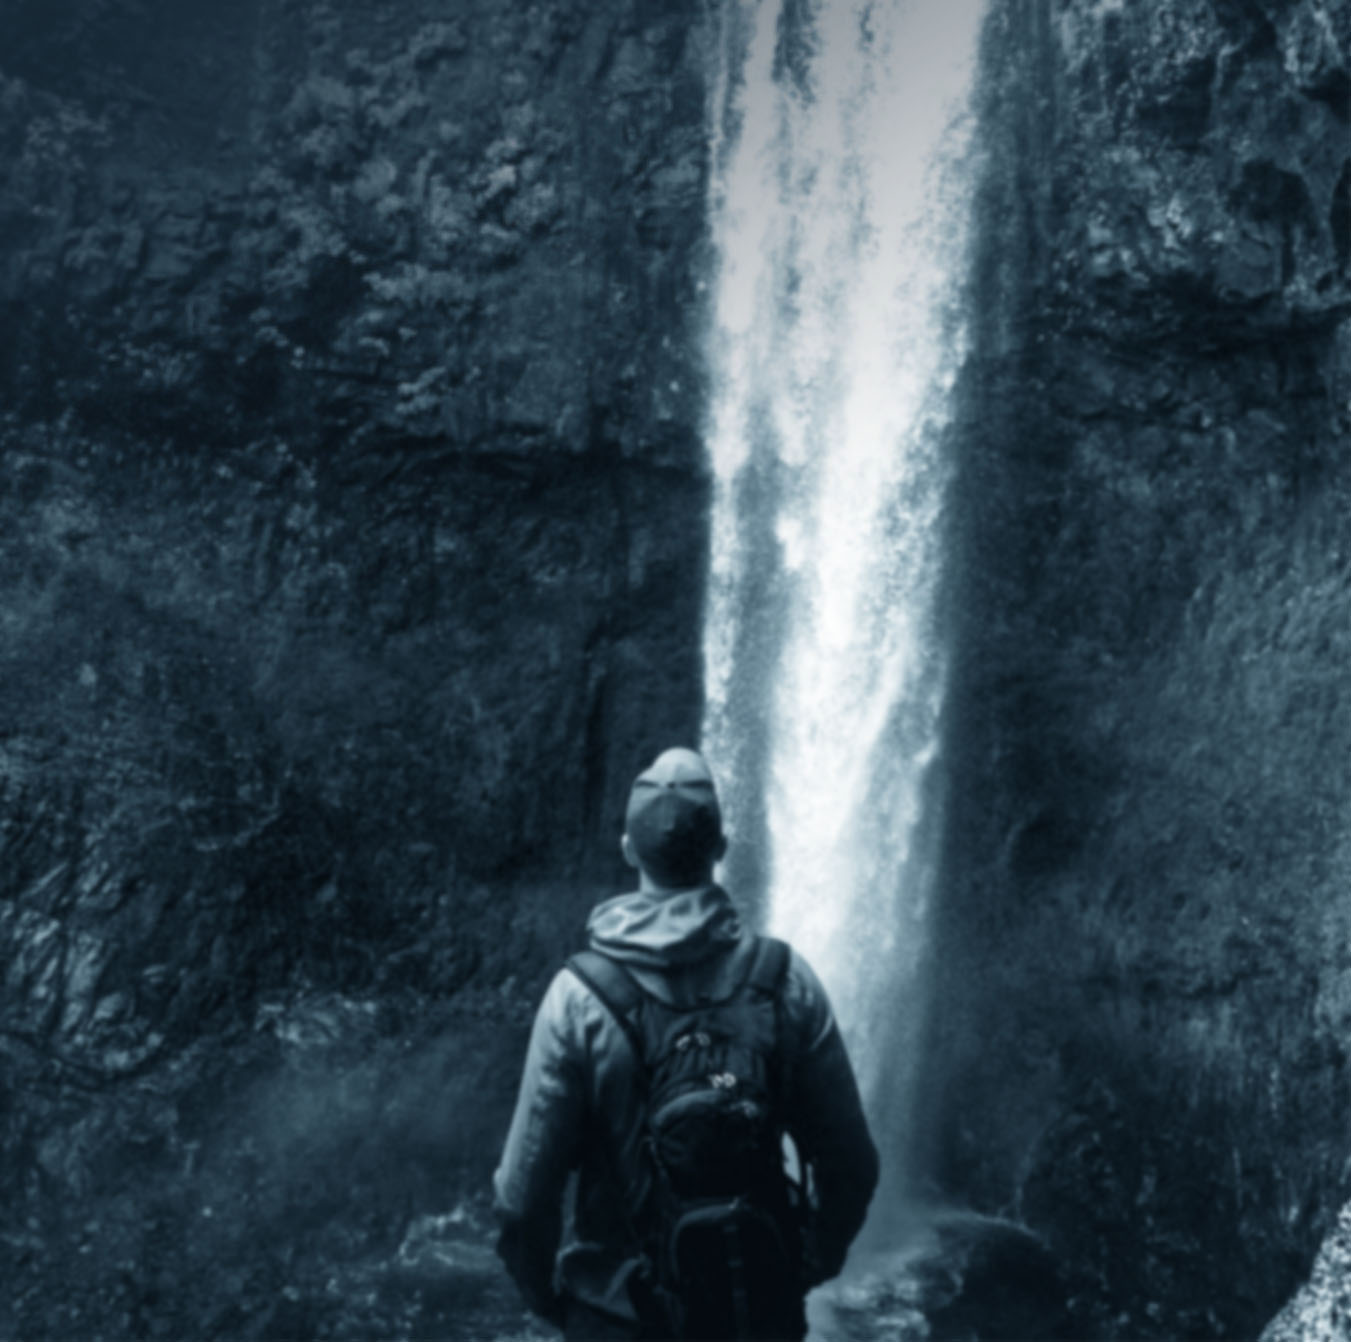
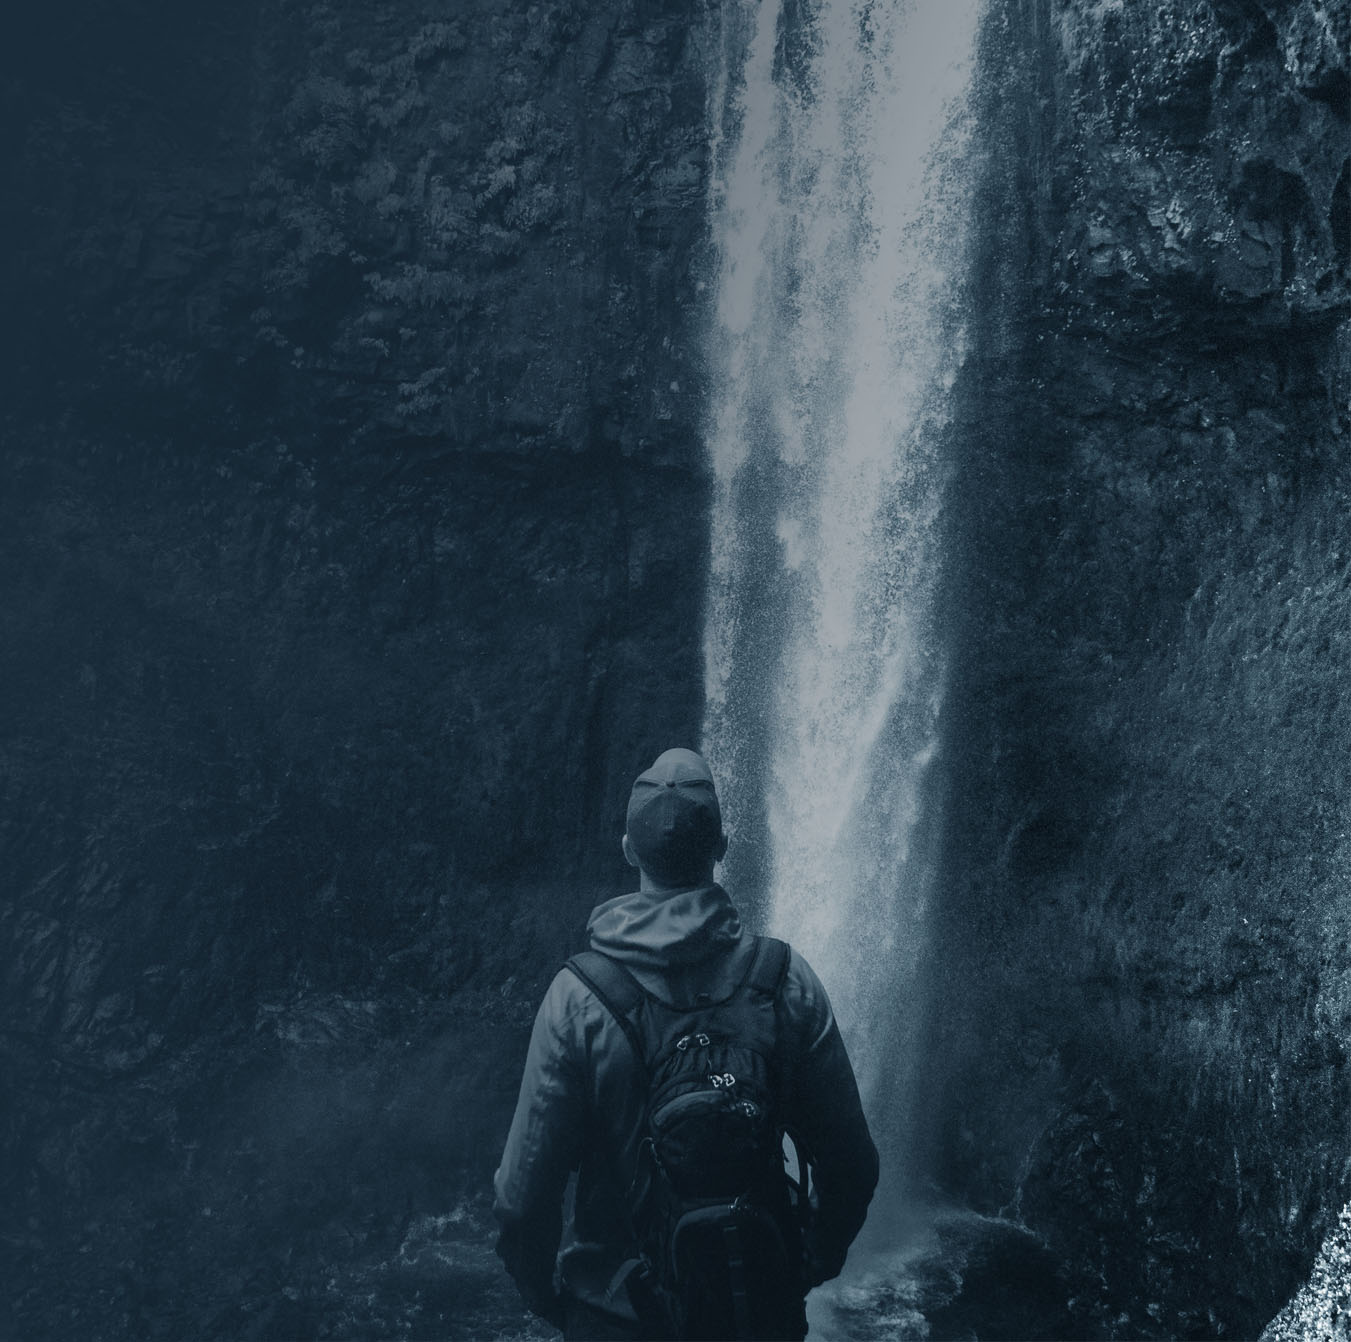
init

diff --git a/src/styles/m-app.css b/src/styles/m-app.css
@@ -161,32 +161,6 @@ textarea {
 }
 
 /*************************************************************************************************/
-.form-submit {
-	position: absolute;
-	height: auto;
-    padding: 5vw;
-	border: 0;
-	border-radius: 1.2vw;
-    font-family: Open, sans-serif;
- 	font-size: 6vw;
-    font-weight: 500;
-    letter-spacing: .1vw;
-	background-color: rgb(255, 145, 0);
-    box-shadow: rgba(255, 58, 58, 0.5) 0px 30px 60px -12px inset, 
-    rgba(255, 72, 0, 0.719) 0px 18px 36px -18px inset;
-	color: white;
-	cursor: pointer;
-	transition: background-color .5s;
-}
-
-.form-submit:hover {
-	transition: background-color .5s;
-	background-color: rgb(255, 166, 0);
-}
-
-.form-submit:active {
-	background-color: rgb(255, 208, 0);
-}
 
 .form__next,
 .form__previous,
@@ -240,16 +214,36 @@ textarea {
 
     .form__next,
     .form__previous,
-    .subscrit-form {
+    .subscrit-form,
+    .formModal,
+    .forgotPassword,
+    .backToWebSiteModal,
+    .formSubmit {
         margin-bottom: 12px;
         width: 500px;
         padding: 20px;
         border-radius: 6px;
         font-size: 28px;
         letter-spacing: .5px;
+    } 
+
+    .form {
+        top: 55%;
+    }
+    
+    .formMeanStyle input {
+        height: 60px;
+        border-radius: 6px;
+        width: 500px;
+        margin-bottom: 12px;
+        padding-left: 20px;
+        font-weight: 300;
+        font-size: 20px;
+        line-height: 26px;
+        letter-spacing: 1px;
     }
 
     .arrow-down {
         width: 40px;
-    } 
+    }
 }

diff --git a/src/functions/Uploader/index.jsx b/src/functions/Uploader/index.jsx
@@ -25,7 +25,9 @@ const Uploader = () => {
             icon={faDownload}  
             />
             <p className='container-downlaod__text'>
-                Téléchargez le CV complet ainsi que l'ensemble des recommandations dans leur contenu intégral avec coordonnées au format pdf.
+                <strong>
+                    Téléchargez le CV complet ainsi que l'ensemble des recommandations dans leur contenu intégral avec coordonnées au format pdf.
+                </strong>
             </p>
         </div>
 	)

diff --git a/src/functions/BusinessForm/m-business-form.css b/src/functions/BusinessForm/m-business-form.css
@@ -5,7 +5,6 @@
 .business-form {
 	position: absolute;
     display: flex;
-    justify-content: center;
 	top: 65%;
 	width: 100%;
 	visibility: visible;
@@ -13,6 +12,8 @@
 
 .business-form__container {
     position: relative;
+	left: 50%;
+	transform: translate(-50%, 0);
     top: 62vw;
 	display: flex;
 	flex-direction: row;

diff --git a/src/components/About/m-about.css b/src/components/About/m-about.css
@@ -134,7 +134,7 @@
     left: 0;
     width: 100%;
     height: auto;
-    opacity: .5;
+    opacity: .3;
 }
 
 .pic2 {
